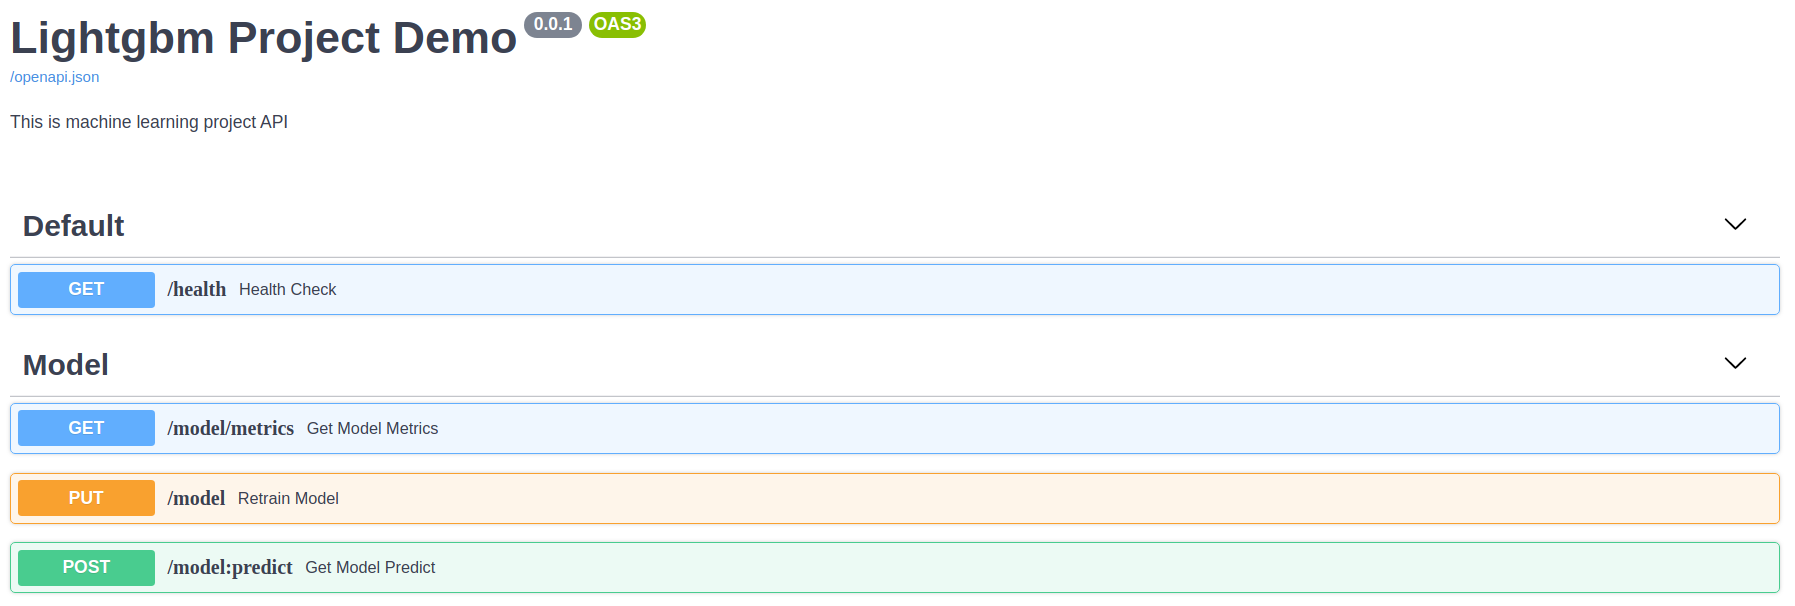
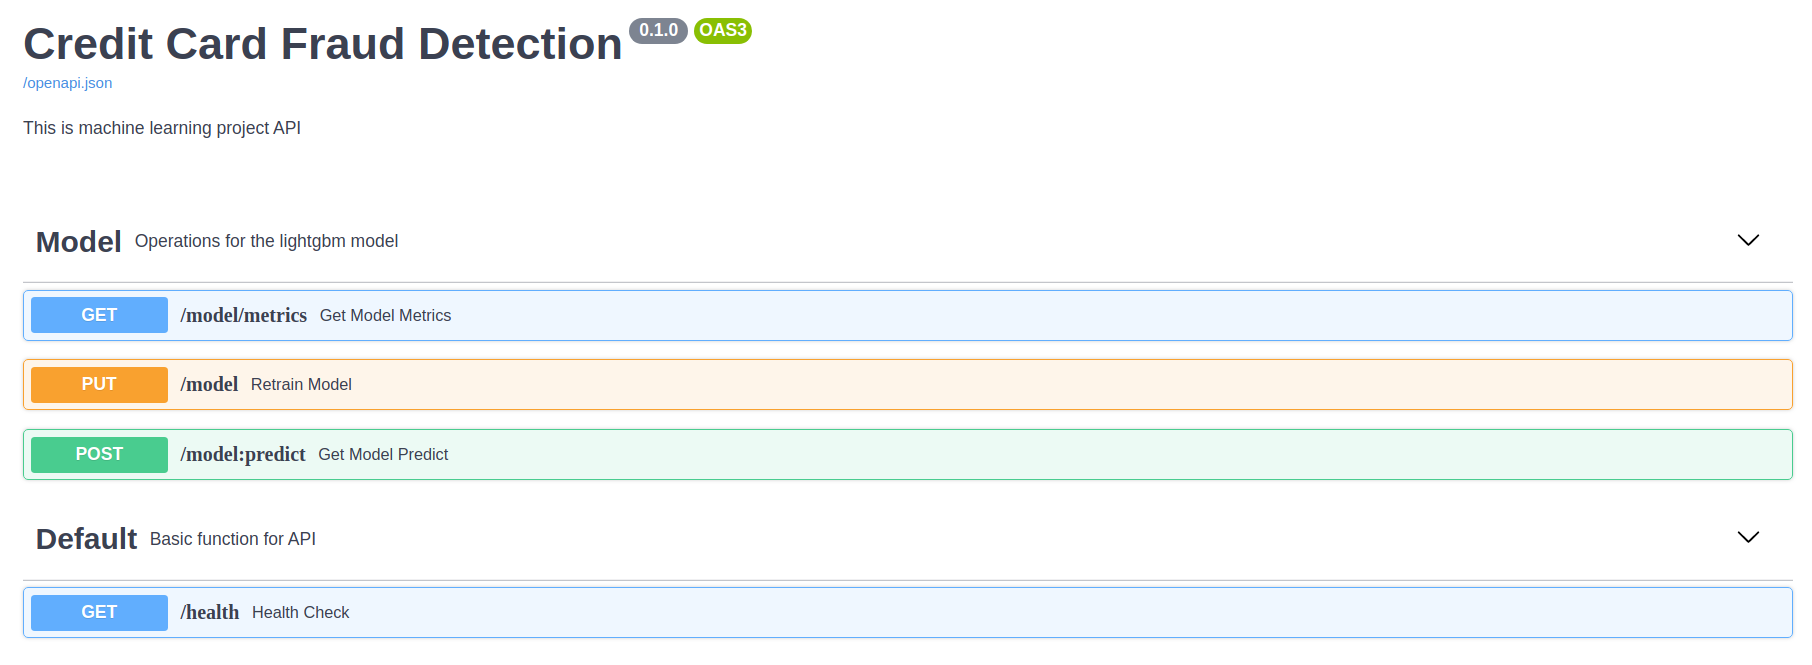
update picture

diff --git a/api/app.py b/api/app.py
@@ -23,9 +23,9 @@ tags_metadata = [
 ]
 
 app = FastAPI(
-    title="Lightgbm Project Demo",
+    title="Credit Card Fraud Detection",
     description="This is machine learning project API",
-    version="0.0.1",
+    version="0.1.0",
     openapi_tags=tags_metadata)
 package_dir = os.path.dirname(os.path.abspath(__file__))
 train_light_gbm_model = TrainLightGbmModel()
